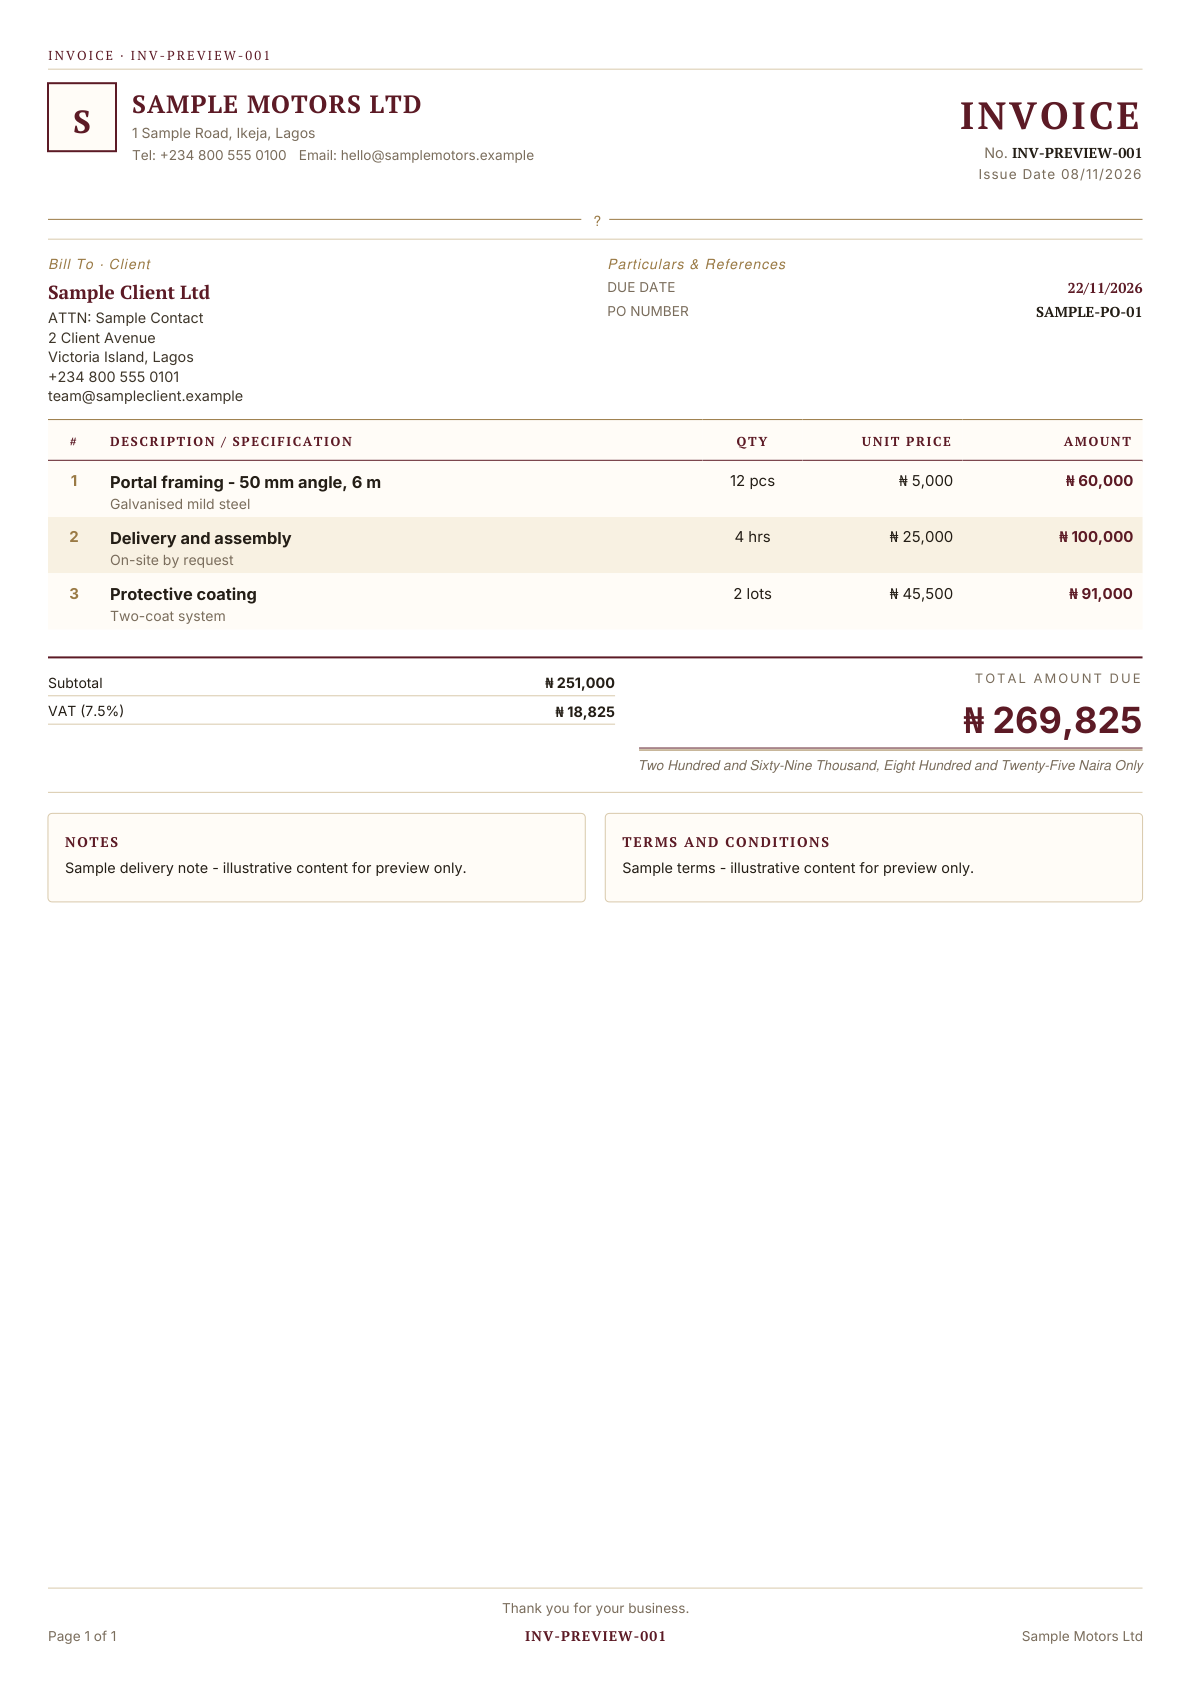
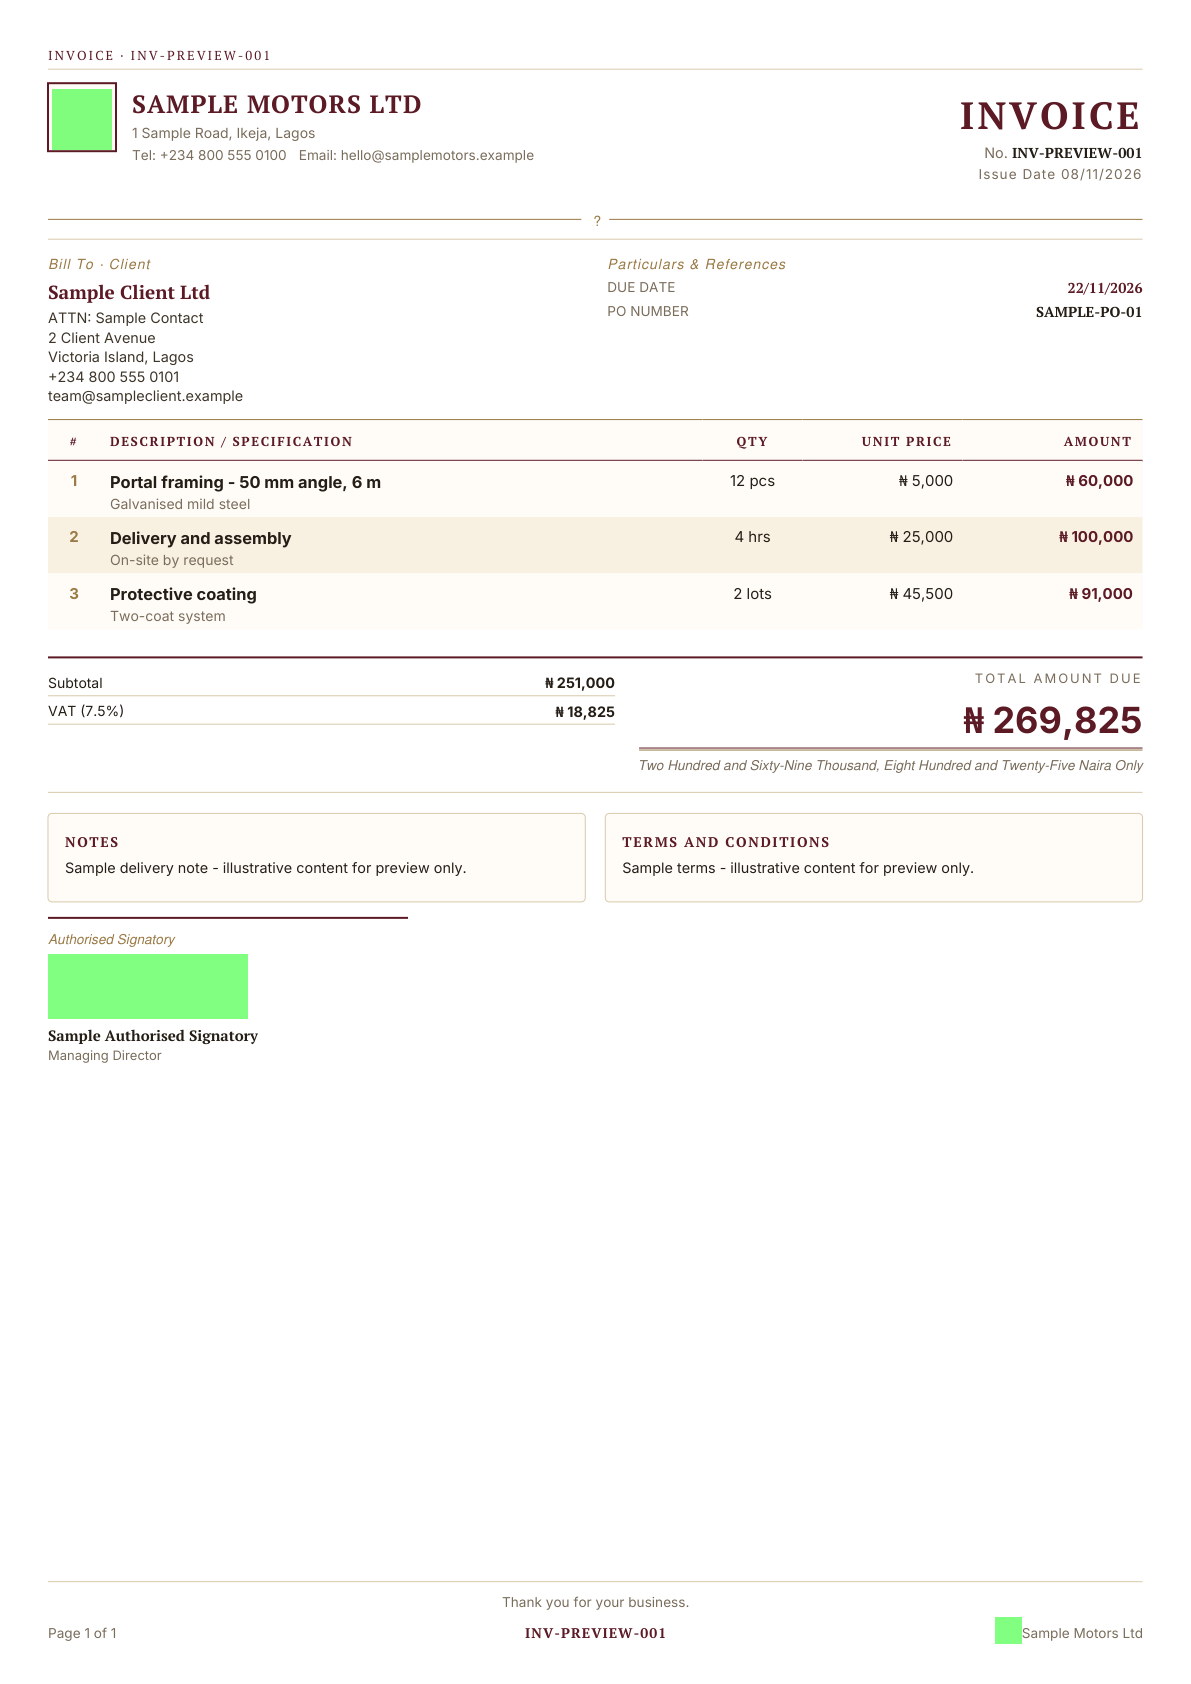
🐛 fix(pdf): centralize intrinsic palette suppression and re-render previews

diff --git a/src/domain/pdf/customization/commercial.ts b/src/domain/pdf/customization/commercial.ts
@@ -22,6 +22,7 @@ import type {
 import type { PdfDesignPreset, PdfDesignPresetDocument } from '@/lib/pdfDesignPreset'
 import { getPdfDesignPreset, hasSavedPdfDesignPreset, setPdfDesignPreset } from '@/lib/pdfDesignPreset'
 import { resolveFull } from './resolver'
+import { isIntrinsicPaletteTemplate } from '@/domain/invoice/types'
 
 const STORAGE_PREFIX = 'bigdrops_pdf_customization_'
 
@@ -138,6 +139,11 @@ export function resolveCommercialDocumentFamily(
  * Use this in PDF download actions (invoicePdfActions, pdfDownloadHandler)
  * where the React hook is not available.
  *
+ * Intrinsic-palette templates (architectural/executive/heritage) own their color scheme:
+ * any saved or engine-bridged custom accent is suppressed for them and their intrinsic
+ * palette always wins. This is the single choke point for the restriction — no call site
+ * needs to re-implement it.
+ *
  * The persisted design preset is the source of truth for the Custom Colors /
  * Custom Fonts toggles. Engine-saved accent/font values are applied on top
  * when present (the customization modal keeps them in sync).
@@ -150,11 +156,15 @@ export function resolveCommercialDocumentFamily(
  */
 export function resolveCommercialDesignPreset(
   documentType: PdfCustomizationDocumentFamily,
+  templateId?: string | null,
 ): PdfDesignPreset {
+  const intrinsicPalette = isIntrinsicPaletteTemplate(templateId)
   const docType: PdfDesignPresetDocument = documentType === 'quotation' ? 'quotation' : 'invoice'
   const base = getPdfDesignPreset(docType)
   const engineSettings = loadEngineSettings(documentType)
-  if (!engineSettings) return base
+  if (!engineSettings) {
+    return intrinsicPalette ? { ...base, useCustomColors: false } : base
+  }
   const { customization, settings } = resolveFull(
     COMMERCIAL_TEMPLATE_DEFAULTS,
     COMMERCIAL_CAPABILITIES,
@@ -165,6 +175,6 @@ export function resolveCommercialDesignPreset(
   if (!hasSavedPdfDesignPreset(docType)) {
     preset.useCustomFonts = true
   }
-  preset.useCustomColors = settings.accentEnabled
+  preset.useCustomColors = intrinsicPalette ? false : settings.accentEnabled
   return preset
 }

diff --git a/src/components/document-view/invoice/invoicePdfActions.ts b/src/components/document-view/invoice/invoicePdfActions.ts
@@ -4,7 +4,7 @@ import {
   normalizeAdditionalFieldEntries,
   parseCustomFields,
 } from "@/domain/invoice";
-import { InvoicePdfTemplateId, isIntrinsicPaletteTemplate } from "@/domain/invoice/types";
+import { InvoicePdfTemplateId } from "@/domain/invoice/types";
 import { computeDocument } from "@/lib/Calculations";
 import { buildInvoicePreviewModel, resolveDocumentSignatory } from "@/domain/invoice/previewModel";
 import { formatNaira } from "@/lib/formatters/money";
@@ -204,14 +204,7 @@ export const buildInvoicePdfPayload = async ({
       footerText: pdfOutput.showFooter ? String(settingsData?.footer_text || "") : "",
       tagline: pdfOutput.showTagline ? String(settingsData?.company_tagline || "") : "",
       metaFooter: { companyName: String(settingsData?.company_name || "") },
-      template: { designPreset: (() => {
-        const rawPreset = resolveCommercialDesignPreset("invoice");
-        // Intrinsic-palette templates own their color scheme. Suppress any
-        // previously saved custom accent so it cannot bleed into their palette.
-        return isIntrinsicPaletteTemplate(targetTemplateId)
-          ? { ...rawPreset, useCustomColors: false }
-          : rawPreset;
-      })() },
+      template: { designPreset: resolveCommercialDesignPreset("invoice", targetTemplateId) },
     },
     templateId: targetTemplateId,
     compact: pdfOutput.compact === true,

diff --git a/src/domain/quotation/pdfDownloadHandler.ts b/src/domain/quotation/pdfDownloadHandler.ts
@@ -8,7 +8,6 @@ import {
   normalizeInvoicePdfTemplateId,
   normalizeAdditionalFieldEntries,
 } from "@/domain/invoice";
-import { isIntrinsicPaletteTemplate } from "@/domain/invoice/types";
 import { resolveCommercialDesignPreset } from "@/domain/pdf/customization/commercial";
 import { userDownloadLocationLabel } from "@/lib/native/fileDownload";
 
@@ -38,12 +37,7 @@ export async function buildQuotationPdfPayload(input: QuotationPdfGenerationPara
   } = await import("@/components/pdf");
   const savedColumns = Array.isArray(customFields?.columnConfig) ? customFields.columnConfig : BUILTIN_COLUMNS;
   const templateId = normalizeInvoicePdfTemplateId(customFields?.pdfTemplateId) || "industry";
-  const rawDesignPreset = resolveCommercialDesignPreset("quotation");
-  // Intrinsic-palette templates own their color scheme. Suppress any
-  // previously saved custom accent so it cannot bleed into their palette.
-  const pdfDesignPreset = isIntrinsicPaletteTemplate(templateId)
-    ? { ...rawDesignPreset, useCustomColors: false }
-    : rawDesignPreset;
+  const pdfDesignPreset = resolveCommercialDesignPreset("quotation", templateId);
   const resolvedTable = interpretPdfTableSettings(savedColumns as any, {
     mergeQtyUnit: customFields?.mergeQtyUnit === true,
     items: Array.isArray(items) ? items : [],

diff --git a/scripts/generate-commercial-template-previews.ts b/scripts/generate-commercial-template-previews.ts
@@ -40,6 +40,11 @@ type TemplateId =
   | 'executive'
   | 'heritage'
 
+/** 1×1 opaque PNG, deterministic offline fixture asset (stretched to fit the
+ *  fixed-square logo/signature slots — proves the slot renders, not fidelity). */
+const FIXTURE_PIXEL_PNG =
[1 lines of base64/hex data omitted]
+
 const TEMPLATES: Array<{
   id: TemplateId
   Component: React.ComponentType<any>
@@ -177,8 +182,12 @@ function buildSampleInvoice(orientation: 'portrait' | 'landscape'): any {
     additionalSections: [],
     additionalFields: [],
     referenceLinks: [],
-    signature: null,
-    logo: { imageUrl: '', altText: '' },
+    signature: {
+      imageUrl: FIXTURE_PIXEL_PNG,
+      name: 'Sample Authorised Signatory',
+      role: 'Managing Director',
+    },
+    logo: { imageUrl: FIXTURE_PIXEL_PNG, altText: 'Sample Motors Ltd' },
     footerText: 'Thank you for your business.',
     tagline: '',
     metaFooter: { companyName: 'Sample Motors Ltd' },

diff --git a/docs/reports/2026-11-09-commercial-pdf-palette-isolation-independent-audit.md b/docs/reports/2026-11-09-commercial-pdf-palette-isolation-independent-audit.md
@@ -265,4 +265,17 @@ Not fixes — scoping pointers only:
 
 ## 14. Bottom line
 
-f094443a correctly diagnoses and structurally fixes the amber bleed on every rendering route that exists. It does not — by itself — deliver the promised all-three-template outcome: Executive and Heritage House still leak internal labels and render unconditional signature furniture at HEAD; their cleanup is uncommitted. The Architectural logo got real breathing room but cannot preserve uploaded-logo aspect ratio on the Forme Image primitive. The footers of the three templates are inverted relative to both the HTML references and Industry, with a larger bottom margin. The only rendered-page evidence in the repo is a stale, fixture-limited preview set in which a real glyph defect (`❖` → `?`) is plainly visible. Visual acceptance must remain **OPEN** until a deterministic rasterized render of all three templates (with logo and signature present) is inspected against the HTML references and the D-defects above are either fixed or formally waived.
+f094443a correctly diagnoses and structurally fixes the amber bleed on every rendering route that exists. It does not — by itself — deliver the promised all-three-template outcome: Executive and Heritage House still leak internal labels and render unconditional signature furniture at HEAD; their cleanup is uncommitted. *(Superseded by §15: since this was written, commit `cded8282` landed that cleanup; §15 records the current state.)* The Architectural logo got real breathing room but cannot preserve uploaded-logo aspect ratio on the Forme Image primitive. The footers of the three templates are inverted relative to both the HTML references and Industry, with a larger bottom margin. The only rendered-page evidence in the repo is a stale, fixture-limited preview set in which a real glyph defect (`❖` → `?`) is plainly visible. Visual acceptance must remain **OPEN** until a deterministic rasterized render of all three templates (with logo and signature present) is inspected against the HTML references and the D-defects above are either fixed or formally waived.
+
+## 15. Addendum — 2026-11-09 scoped remediation (H-1/H-2/H-3) executed post-audit
+
+After the audit was filed (and committed as `24c20946`), two intervening steps matter:
+
+1. **Intervening commits.** `cded8282` ("fix(pdf): isolate intrinsic palettes and repair template previews") landed the Executive/Heritage WT cleanup (internal labels removed, signatures conditional, Industry/Landscape Forme edits, all five regenerated PNGs, picker changes, and the palette-isolation test suite). `24c20946` landed the audit report itself. So at current HEAD (`69dd2094`), **H-1 is satisfied**: Executive and Heritage no longer render `EXECUTIVE COMMERCIAL FOLIO`, `STATIONERY`, `BOURXE`, `DOCUMENT CONTROL`/`VERIFIED`, and both signature sections are strictly conditional on real data (verified by source read post-commit). PO redesign / design-lab work landed separately and is unrelated to this audit.
+2. **H-2 (guard centralization) — done.** `resolveCommercialDesignPreset()` now accepts an optional `templateId` and suppresses `useCustomColors` for intrinsic-palette templates inside the bridge itself (`src/domain/pdf/customization/commercial.ts`). The two call-site guards are deleted; `invoicePdfActions.ts` and `pdfDownloadHandler.ts` pass the (already normalized) template id straight to the resolver. No second implementation exists; any future caller that passes the template id inherits the restriction automatically. Behavior is unchanged at runtime: intrinsic templates always resolve `useCustomColors: false`; Industry/others unchanged.
+3. **H-3 (rendered evidence with logo and signature) — partially closed.** The preview fixture (`scripts/generate-commercial-template-previews.ts`) now includes a deterministic logo (1×1 PNG data URI, stretched into the fixed 30×30 slot) and a non-procurement signature (`Sample Authorised Signatory`), so every preview render exercises the logo slot and the conditional signature furniture end-to-end through mupdf. PNGs regenerated and inspected: intrinsic palettes hold, no internal labels in any of the three intrinsic templates, footer remains in the pre-remediation inverted order (M-2, intentionally untouched), Executive/Heritage `❖` still renders as `?` (M-3, untouched). Caveats remain: the fixture image proves the slots render, not aspect-ratio fidelity (M-1, unchanged), it does not exercise procurement signatories or multi-page flow, and the HTML references still cannot be pixel-compared (no renderer for the HTML in this environment; browser refuses `file://`).
+
+**Still open (holding):** HTML-reference pixel comparison; footer order/margin (M-2); `❖` glyph (M-3); invented copy panels (M-4); two-tone collapse under custom accent (M-5); neutral-token mismatches (M-6); logo contain-fit (M-1); procurement signatory name fallbacks (L-2); the accent toggle UX silent no-op (D-03, explicitly deferred by scope). Visual acceptance against the HTML references remains **OPEN** until an inspected, deterministic render of all three templates is compared page-by-page against the references with logo and signature present.
+
+**Verification of H-1/H-2/H-3 claims:** source reads at HEAD; PNGs regenerated and viewed post-change; no build/typecheck/lint/test suite run (the pdf serialized-tree tests do not load under the repo's `node --test` setup — `.tsx` extension error at import time, pre-existing environment limitation, unrelated to these edits). The working-tree contains the remediation as uncommitted changes; commit is left to the user.
+
